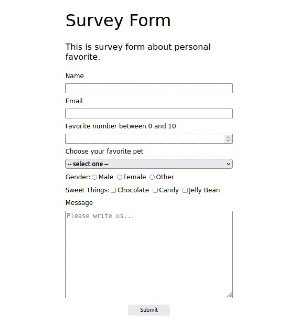
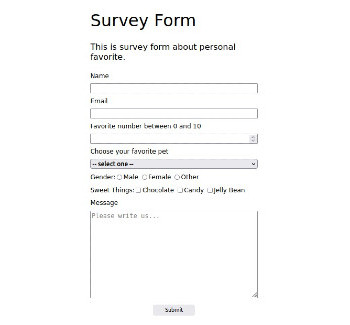
image amended.

diff --git a/index.html b/index.html
@@ -27,9 +27,35 @@
       <!-- work section ------------------- -->
       <section id="projects">
         <h2>These are some of my projects</h2>
-        <div class="project-title">
-          <img src="" alt="Tribute Page Picture" />
-          <a href="">Tribute Page</a>
+
+        <!-- tribute page -->
+        <div class="projectTitles">
+          <div class="project-title">
+            <img
+              src="https://github.com/hollylui/personal_portfolio_webpage_freecodecamp/blob/main/assets/images/tribute-page.jpg?raw=true"
+              alt="Tribute Page Picture"
+            />
+            <a
+              class="project-link"
+              href="https://codepen.io/hollylui/pen/mdMvvMb"
+              target="_black"
+              >Tribute Page</a
+            >
+          </div>
+
+          <!-- survey form -->
+          <div class="project-title">
+            <img
+              src="https://github.com/hollylui/personal_portfolio_webpage_freecodecamp/blob/main/assets/images/survey_form.jpg?raw=true"
+              alt="Survey Form Picture"
+            />
+            <a
+              class="project-link"
+              href="https://codepen.io/hollylui/pen/qBXGXer"
+              target="_black"
+              >Survey Form</a
+            >
+          </div>
         </div>
       </section>
 

diff --git a/styles.css b/styles.css
@@ -51,13 +51,41 @@ h1 {
 /* work section ------------------------------ */
 
 #projects {
-  background-color: #0099ff;
+  background-color: #004472;
   text-align: center;
 }
 
 h2 {
   margin: 0 auto;
   font-size: 3rem;
+}
+
+.projectTitles {
+  display: flex;
+  justify-content: center;
+}
+
+.project-title {
+  max-width: 300px;
+  display: flex;
+  flex-direction: column;
+}
+
+.project-link {
+  font-size: 1.6rem;
+  color: #fff;
+  text-decoration: none;
+  background-color: #7e5200a1;
+  padding: 10px 0;
+}
+
+.project-link:hover {
+  background-color: #7e5200;
+  text-decoration: underline;
+}
+
+.project-title {
+  padding: 5px;
 }
 
 /* DRY --------------------------------------- */
